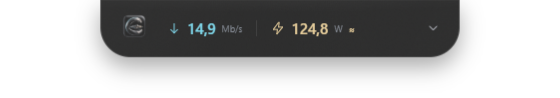
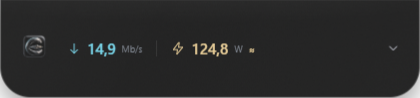
test: verify published update metadata from packaged application

diff --git a/main/main.ts b/main/main.ts
@@ -132,6 +132,10 @@ if (!lock) {
   }
   async function createWindow() {
     store = new DataStore(app.getPath('userData'));
+    if (process.argv.includes('--dock')) {
+      store.data.settings.position = null;
+      store.data.settings.topOffset = 0;
+    }
     if (smoke)
       store.data = {
         schemaVersion: 1,
@@ -534,6 +538,17 @@ if (!lock) {
           if (rows !== 2) throw new Error('Energy history failed');
           const errors = await win.webContents.executeJavaScript(`window.__islandErrors || []`);
           if (errors.length) throw new Error(JSON.stringify(errors));
+          if (process.argv.includes('--verify-updates')) {
+            if (!app.isPackaged)
+              throw new Error('Update feed verification requires a packaged application');
+            await autoUpdater.checkForUpdates();
+            if (update.phase !== 'current')
+              throw new Error('Expected current released version: ' + JSON.stringify(update));
+            fs.writeFileSync(
+              path.join(artifact, 'update-check.json'),
+              JSON.stringify({ version: app.getVersion(), ...update }, null, 2),
+            );
+          }
           fs.writeFileSync(
             path.join(artifact, 'smoke-result.json'),
             JSON.stringify(
